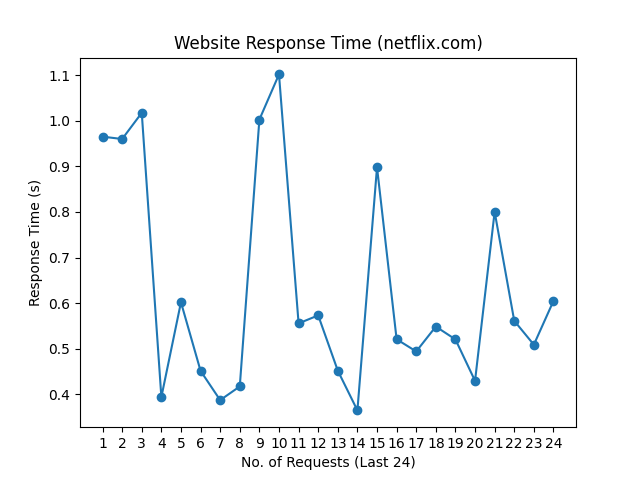
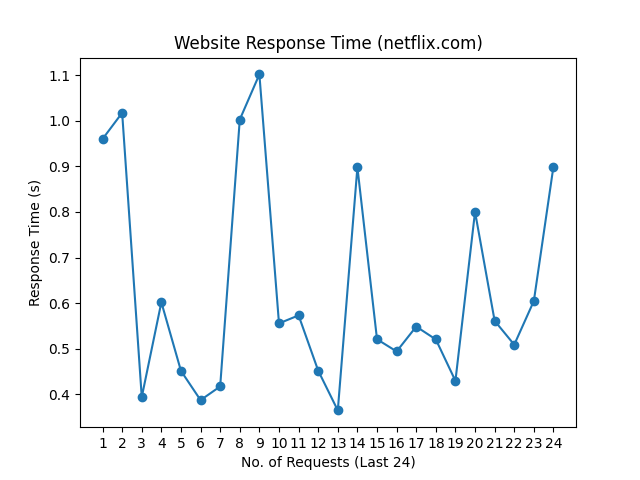
update README.md, history and graph

Changed region(s): [[0.1562, 0.125, 0.875, 0.875], [0.8438, 0.3438, 0.875, 0.5312]]

diff --git a/README.md b/README.md
@@ -1,10 +1,10 @@
 # Web Monitoring
 
-Last Checked: 03/07/2024 08:17
+Last Checked: 04/07/2024 08:16
 
 | Website | Response Time (s) | Status | Avg Uptime (%) |
 |---------|-------------------|--------|----------------|
 | www.thiswebsiteisdown.net | 0 <br> <img src="graph/thiswebsiteisdown.net.png" alt="Graph" width="200" height="200">  | ❌ Down | 0.00 |
-| www.netflix.com | 0.604561 <br> <img src="graph/netflix.com.png" alt="Graph" width="200" height="200">  | ✅ Up | 100.00 |
-| www.google.com | 0.082537 <br> <img src="graph/google.com.png" alt="Graph" width="200" height="200">  | ✅ Up | 100.00 |
-| www.facebook.com | 0.390090 <br> <img src="graph/facebook.com.png" alt="Graph" width="200" height="200">  | ✅ Up | 100.00 |
+| www.netflix.com | 0.899675 <br> <img src="graph/netflix.com.png" alt="Graph" width="200" height="200">  | ✅ Up | 100.00 |
+| www.google.com | 0.059115 <br> <img src="graph/google.com.png" alt="Graph" width="200" height="200">  | ✅ Up | 100.00 |
+| www.facebook.com | 0.657475 <br> <img src="graph/facebook.com.png" alt="Graph" width="200" height="200">  | ✅ Up | 100.00 |
